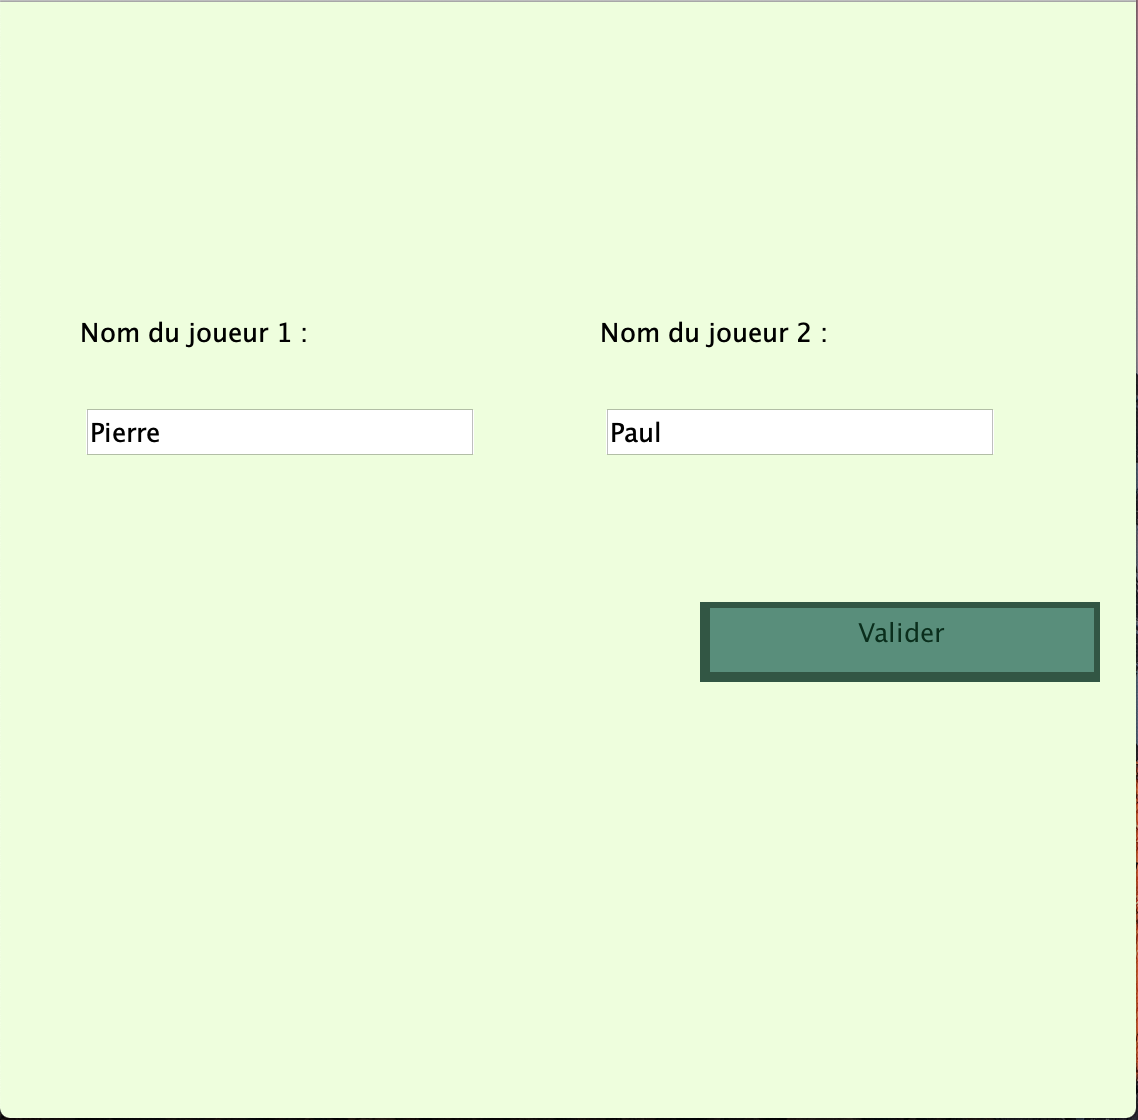
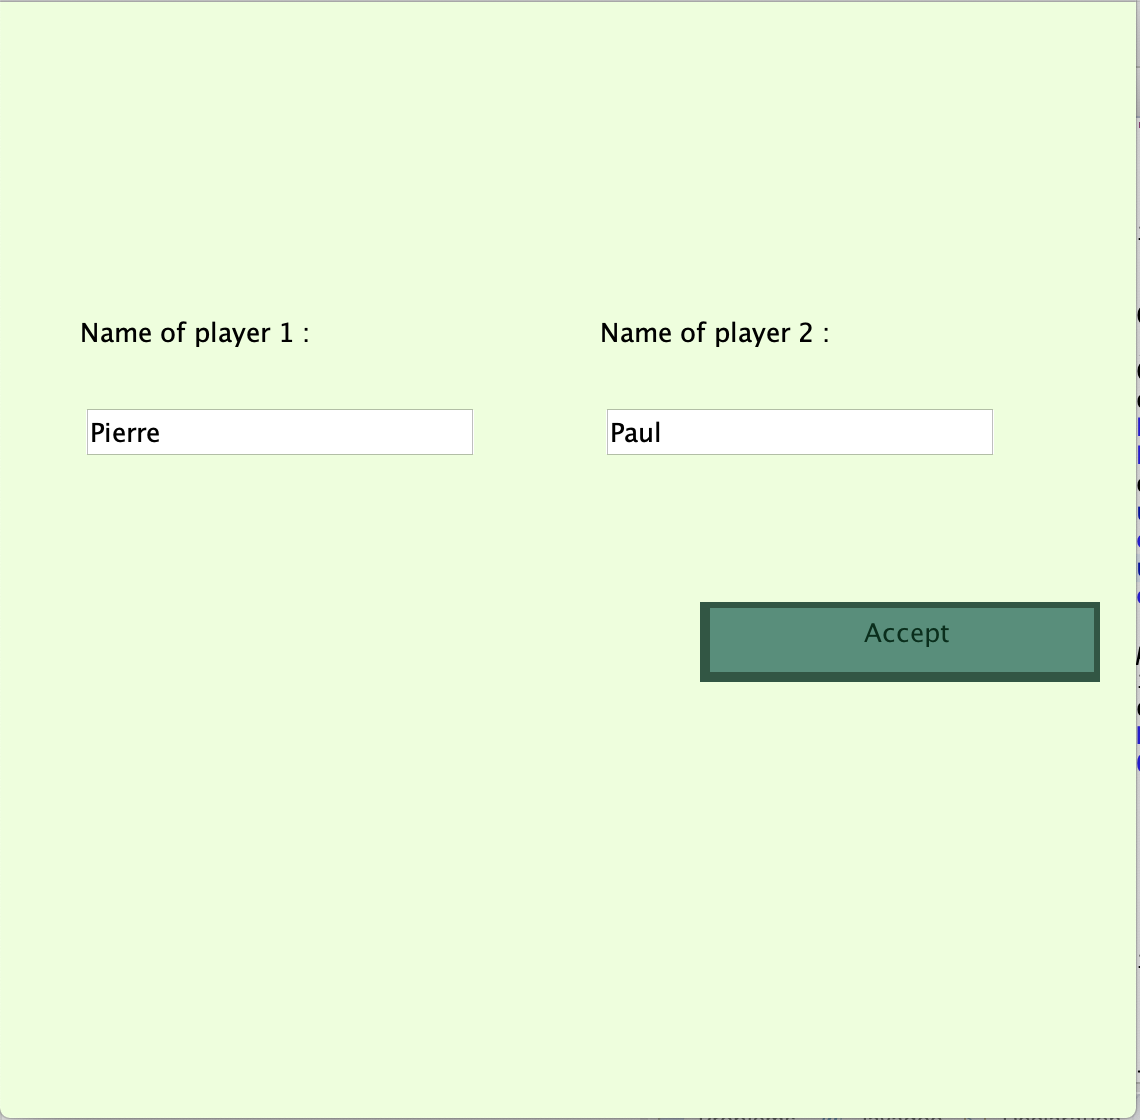
Translated to English.

diff --git a/src/TetrisPuissance4Graphique.java b/src/TetrisPuissance4Graphique.java
@@ -3,6 +3,9 @@ import java.awt.Color;
 import java.awt.Font;
 import java.awt.Graphics;
 import java.awt.event.*;
+import java.awt.im.InputContext;
+import java.util.HashMap;
+import java.util.Map;
 
 import javax.swing.JPanel;
 
@@ -24,7 +27,23 @@ public class TetrisPuissance4Graphique extends JPanel implements KeyListener, Mo
 	private Joueur joueur1;
 	private Joueur joueur2;
 	
-	public TetrisPuissance4Graphique(int joueur, Joueur joueur1, Joueur joueur2) {	
+	private boolean keyboard_AZ;
+	private Map<String, Integer> keyboard_conf;
+	
+	
+	public TetrisPuissance4Graphique(int joueur, Joueur joueur1, Joueur joueur2) {
+		
+		keyboard_AZ = InputContext.getInstance().getLocale().toString().equals("fr");
+		keyboard_conf = new HashMap<>();
+		if (keyboard_AZ) {
+			keyboard_conf.put("UP", KeyEvent.VK_Z);
+			keyboard_conf.put("LEFT", KeyEvent.VK_Q);
+		} else {
+			keyboard_conf.put("UP", KeyEvent.VK_W);
+			keyboard_conf.put("LEFT", KeyEvent.VK_A);
+		}
+		keyboard_conf.put("DOWN", KeyEvent.VK_S);
+		keyboard_conf.put("RIGHT", KeyEvent.VK_D);
 		
 		partieFinie = false;
 		debutPartie = true;
@@ -97,16 +116,16 @@ public class TetrisPuissance4Graphique extends JPanel implements KeyListener, Mo
 				repaint();
 				
 			}
-		} else if (!this.partiePreFinie && this.e.getJoueur() == this.joueur1 && e.getKeyCode() == KeyEvent.VK_Q) {
+		} else if (!this.partiePreFinie && this.e.getJoueur() == this.joueur1 && e.getKeyCode() == keyboard_conf.get("LEFT")) {
 			d.left();
 			repaint();
-		} else if (!this.partiePreFinie && this.e.getJoueur() == this.joueur1 && e.getKeyCode() == KeyEvent.VK_D) {
+		} else if (!this.partiePreFinie && this.e.getJoueur() == this.joueur1 && e.getKeyCode() == keyboard_conf.get("RIGHT")) {
 			d.right();
 			repaint();
-		} else if (!this.partiePreFinie && this.e.getJoueur() == this.joueur1 && e.getKeyCode() == KeyEvent.VK_Z) {
+		} else if (!this.partiePreFinie && this.e.getJoueur() == this.joueur1 && e.getKeyCode() == keyboard_conf.get("UP")) {
 			d.rotate();
 			repaint();
-		} else if (!this.partiePreFinie && this.e.getJoueur() == this.joueur1 && e.getKeyCode() ==  KeyEvent.VK_S) {
+		} else if (!this.partiePreFinie && this.e.getJoueur() == this.joueur1 && e.getKeyCode() ==  keyboard_conf.get("DOWN")) {
 			this.e.changeJoueur();
 			t.addForme(d.getForme());
 			d.newForme(s.firstForme());
@@ -142,19 +161,19 @@ public class TetrisPuissance4Graphique extends JPanel implements KeyListener, Mo
 			g.fillRect(0, 0, getWidth(), getHeight());
 			g.setColor(new Color(175,175,175));
 			g.setFont(new Font("Calibri", Font.BOLD, 20));
-			g.drawString("La partie va commencer.", 170, 100);
-			g.drawString("Le premier à jouer est le joueur " + e.getJoueur().getNom() + ".", 100, 200);
+			g.drawString("The game is going to start.", 150, 100);
+			g.drawString("The first player is " + e.getJoueur().getNom() + ".", 150, 200);
 			g.setFont(new Font("Calibri", Font.PLAIN, 16));
-			g.drawString(joueur1.getNom() + " est en jaune.", 40, 300);
-			g.drawString("Il joue avec les touches ZQSD.", 40, 350);
-			g.drawString(joueur2.getNom() + " est en rouge.", 295, 300);
-			g.drawString("Il joue avec les flèches.", 295, 350);
+			g.drawString(joueur1.getNom() + " is in yellow.", 40, 300);
+			g.drawString("He plays with the keys " + (keyboard_AZ?"ZQSD":"WASD") +  ".", 40, 350);
+			g.drawString(joueur2.getNom() + " is in red.", 295, 300);
+			g.drawString("He plays with the arrows.", 295, 350);
 			try {
 				Thread.sleep(1000);
 			} catch (Exception e) {}
 			g.setFont(new Font("Calibri", Font.BOLD, 20));
-			g.drawString("PRESSEZ N'IMPORTE QUELLE TOUCHE", 100, 430);
-			g.drawString("POUR CONTINUER", 200, 460);
+			g.drawString("PRESS ANY KEY", 200, 430);
+			g.drawString("TO CONTINUE", 200, 460);
 			
 		}
 	}

diff --git a/src/Suivants.java b/src/Suivants.java
@@ -56,27 +56,27 @@ public class Suivants {
 		} else {
 			g.setFont(new Font("Calibri",Font.PLAIN, 15));
 			g.setColor(Color.BLACK);
-			g.drawString("Aucune autre forme", 10, 20);
-			g.drawString("n'apparaîtra : ", 10, 40);
-			g.drawString("la partie va se terminer", 10, 60);
+			g.drawString("No other shape", 10, 20);
+			g.drawString("will appear: ", 10, 40);
+			g.drawString("the game is going to end", 10, 60);
 		}
 		if (f2 != null) {
 			f2.dessiner(g, 1, echelle);
 		}  else {
 			g.setFont(new Font("Calibri",Font.PLAIN, 15));
 			g.setColor(Color.BLACK);
-			g.drawString("Aucune autre forme", 10, 20 + 4*JPanelSuivants.echelle);
-			g.drawString("n'apparaîtra : ", 10, 40 + 4*JPanelSuivants.echelle);
-			g.drawString("la partie va se terminer", 10, 60 + 4*JPanelSuivants.echelle);
+			g.drawString("No other shape", 10, 20 + 4*JPanelSuivants.echelle);
+			g.drawString("will appear: ", 10, 40 + 4*JPanelSuivants.echelle);
+			g.drawString("the game is going to end", 10, 60 + 4*JPanelSuivants.echelle);
 		}
 		if (f3 != null) {
 			f3.dessiner(g, 2, echelle);
 		} else {
 			g.setFont(new Font("Calibri",Font.PLAIN, 15));
 			g.setColor(Color.BLACK);
-			g.drawString("Aucune autre forme", 10, 20 + 8*JPanelSuivants.echelle);
-			g.drawString("n'apparaîtra : ", 10, 40 + 8*JPanelSuivants.echelle);
-			g.drawString("la partie va se terminer", 10, 60 + 8*JPanelSuivants.echelle);
+			g.drawString("No other shape", 10, 20 + 8*JPanelSuivants.echelle);
+			g.drawString("will appear: ", 10, 40 + 8*JPanelSuivants.echelle);
+			g.drawString("the game is goind to end", 10, 60 + 8*JPanelSuivants.echelle);
 		}
 	}
 	

diff --git a/src/JPanelDemarrage.java b/src/JPanelDemarrage.java
@@ -33,9 +33,9 @@ public class JPanelDemarrage extends JPanel implements ActionListener {
 		
 		this.setLayout(null);
 		
-		nouvellePartie = new Bouton("Nouvelle Partie", true);
-		continuer = new Bouton("Continuer", !premierePartie);
-		quitter = new Bouton("Quitter", true);
+		nouvellePartie = new Bouton("New Game", true);
+		continuer = new Bouton("Continue", !premierePartie);
+		quitter = new Bouton("Exit", true);
 		
 		this.add(nouvellePartie);
 		this.add(continuer);
@@ -60,7 +60,7 @@ public class JPanelDemarrage extends JPanel implements ActionListener {
 		g.setColor(Color.BLACK);
 		g.setFont(new Font("Calibri", Font.BOLD, 20));
 		if (premierePartie) {
-			g.drawString("NOUVELLE PARTIE", 180, 60);
+			g.drawString("NEW GAME", 220, 60);
 		} else {
 			g.drawString("SCORE", 240, 60);
 			g.drawString(joueur1.getNom() + " : " + getScore1() + " | " + getScore2() + " : " + joueur2.getNom(), 180, 90);

diff --git a/src/JPanelFin.java b/src/JPanelFin.java
@@ -78,12 +78,12 @@ public class JPanelFin extends JPanel {
 		g.setColor(Color.BLACK);
 		
 		if (this.gagnant()==1) {
-			g.drawString(j1.getNom() + " gagne\n" + pointsGagnant() + " à " + pointsPerdant(), 15, 50);
+			g.drawString(j1.getNom() + " wins\n" + pointsGagnant() + " to " + pointsPerdant(), 15, 50);
 		} else if (this.gagnant()==2) {
-			g.drawString(j2.getNom() + " gagne\n" + pointsGagnant() + " à " + pointsPerdant(), 15, 50);
+			g.drawString(j2.getNom() + " wins\n" + pointsGagnant() + " to " + pointsPerdant(), 15, 50);
 		} else {
 			g.setColor(Color.GRAY);
-			g.drawString("Égalité\n" + pointsGagnant() + " partout", 15, 50);
+			g.drawString("Deuce\n" + pointsGagnant() + " all", 15, 50);
 		}
 	}
 }

diff --git a/src/JPanelDemandeJoueur.java b/src/JPanelDemandeJoueur.java
@@ -28,13 +28,13 @@ public class JPanelDemandeJoueur extends JPanel implements ActionListener {
 		joueur1 = null;
 		joueur2 = null;
 		
-		texteJ1 = new JLabel("Nom du joueur 1 :");
-		texteJ2 = new JLabel("Nom du joueur 2 :");
+		texteJ1 = new JLabel("Name of player 1 :");
+		texteJ2 = new JLabel("Name of player 2 :");
 		
 		j1 = new JTextField("Pierre",6);
 		j2 = new JTextField("Paul",6);
 		
-		valider = new Bouton("Valider", true);
+		valider = new Bouton("Accept", true);
 		
 		this.setLayout(null);
 		

diff --git a/src/JPanelEtat.java b/src/JPanelEtat.java
@@ -42,7 +42,7 @@ public class JPanelEtat extends JPanel {
 		g.fillRect(2, 2, getWidth()-4, getHeight()-4);
 		
 		g.setColor(Color.BLACK);
-		g.drawString("Tour de " + getJoueur().getNom(), 10, 50);
+		g.drawString(getJoueur().getNom() + " playing", 10, 50);
 		g.drawString(joueur1.getNom() + " \t\t\t\t\t " + joueur2.getNom(), 10, 125);
 		
 		g.setColor(new Color(150, 150, 0));
